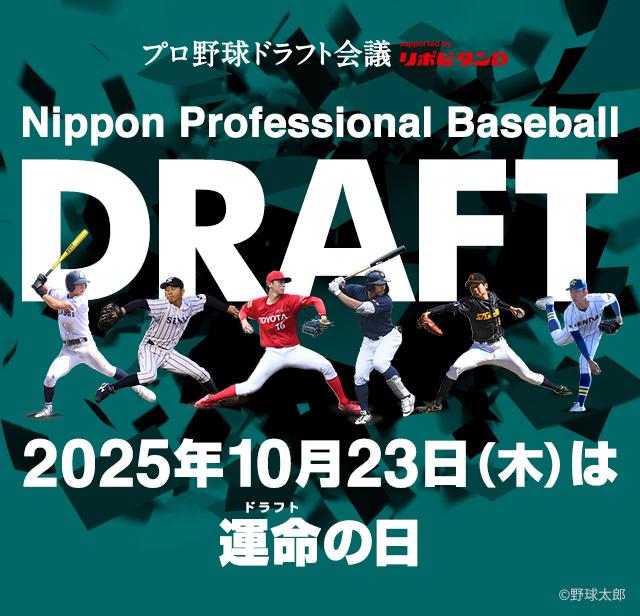
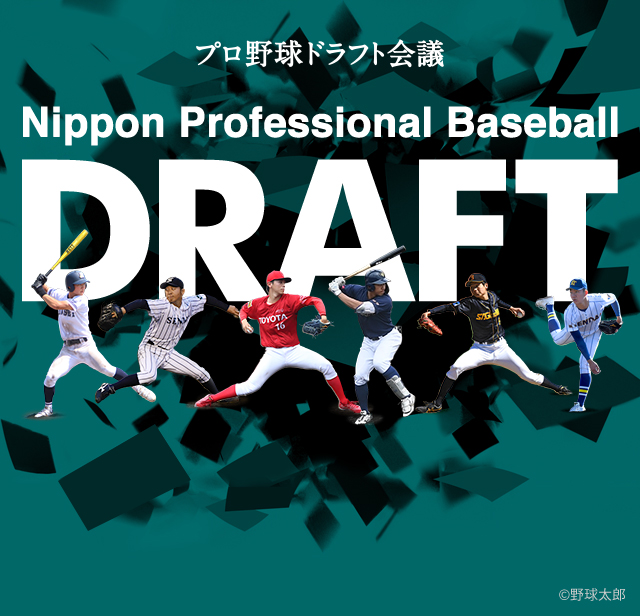
feature: コラム第1回更新

diff --git a/dist/special/draft2025/index.html b/dist/special/draft2025/index.html
@@ -253,12 +253,7 @@
                 
 <div class="draft">
   <h1 class="top-title">
-    <img
-      alt="プロ野球ドラフト会議 supported by リポビタンD Nippon Professional Baseball DRAFT 2025 2025年10月23日（木）は運命の日"
-      src="../../img/special/draft2025/main-image.jpg"
-      width="1920"
-      height="1098"
-    />
+    <img alt="プロ野球ドラフト会議" src="../../img/special/draft2025/main-image.jpg" width="1920" height="1098">
   </h1>
 
   <div class="content-block head">
@@ -320,14 +315,28 @@
       </div>
 
       <p class="program-content-caption-text">
-        1979年、愛知県生まれ。大学まで選手としてプレーした後、筑波大学大学院で野球の動作解析について研究し、在学中から技術解析などをテーマに野球専門誌に寄稿を開始。2017年からはスカイＡのドラフト会議で解説を務め、2021年・2022年・2023年には仮想ドラフト会議にも出演。アマチュア野球を中心に年間約300試合を取材する熱血スポーツライター。
+        1979年、愛知県生まれ。大学まで選手としてプレーした後、筑波大学大学院で野球の動作解析について研究し、在学中から技術解析などをテーマに野球専門誌に寄稿を開始。2017年からはスカイＡのドラフト会議で解説を務め、最近では仮想ドラフトにも出演。アマチュア野球を中心に年間約300試合を取材する熱血スポーツライター。
       </p>
     </article>
-    <p class="heading-title">
-      <span>coming soon</span><br />
-      8月中旬公開予定！以後、毎週1本掲載していきます
-    </p>
     
+    <ol class="program-column">
+      <li class="program-column-list">
+        <div class="program-column-visual">
+          <a href="https://www.dev.sky-a.asahi.co.jp/news/429/"><span class="program-column-number">#01</span> <img alt="" height="auto" src="/img/special/draft2025/column1_1.jpg" width="360" /> </a>
+          <span class="program-column-visual-caption">© 野球太郎</span>
+        </div>
+        <div class="program-column-detail">
+          <dl class="program-column-title">
+            <dt><a href="https://www.dev.sky-a.asahi.co.jp/news/429/">2025/08/15　【ドラフトへの軌跡2025】第10回</a></dt>
+            <dd><a href="https://www.dev.sky-a.asahi.co.jp/news/429/"><ruby>石垣元気<rp>(</rp><rt>イシガキ ゲンキ</rt><rp>)</rp></ruby>（健大高崎）　3年　投手</a></dd>
+          </dl>
+          <p class="program-column-text">
+            <a href="https://www.dev.sky-a.asahi.co.jp/news/429/">今年の高校生で最注目の存在と言えばやはり健大高崎のエース、石垣元気になるだろう。1年春から公式戦で登板し、甲子園にも春夏合わせて4度出場...</a>
+          </p>
+          <p class="program-column-link"><a href="https://www.dev.sky-a.asahi.co.jp/news/429/">続きを読む</a></p>
+        </div>
+      </li>
+    </ol>
   </section>
 </div>
 
@@ -347,21 +356,24 @@
 <div class="content-block">
   <section class="program special">
     <div class="special-content">
-      <h2 class="special-title"><a href="DUMMY">原石発掘！ドラフトハンター 2025夏</a></h2>
+      <h2 class="special-title"><a href="https://sky-a.asahi.co.jp/category/baseball/4000051/">原石発掘！ドラフトハンター 2025夏</a></h2>
 
       <p class="special-lead">
-        <a href="DUMMY">
+        <a href="https://sky-a.asahi.co.jp/category/baseball/4000051/">
           大本命の大学生選手や社会人即戦力候補から、この夏期待の高校生まで、2025年のドラフト注目選手を一挙にご紹介！<br />
           体当たり取材で毎度おなじみ“ドラフトハンター”が、今回発掘するのは…？<br />
           キラッと光るプロ野球選手の原石たちをたっぷりお届けします。<br />
           <br />
-          出演者：中嶋聡、西尾典文、寺田健人
+          7/27(日) 午後4:00　初回放送
+          出演者：中嶋聡、西尾典文、寺田健人、福戸あや(ABCTVアナウンサー)
+          <br><br>
+          <img alt="原石発掘！ドラフトハンター 2025夏" src="../../img/special/draft2025/draft-hunter-image.jpg" />
         </a>
       </p>
     </div>
 
     <div class="special-image">
-      <a href="DUMMY"><img alt="原石発掘！ドラフトハンター 2025夏" src="../../img/special/draft2025/logo_01.png" width="240" height="181" /> </a>
+      <a href="https://sky-a.asahi.co.jp/category/baseball/4000051/"><img alt="原石発掘！ドラフトハンター 2025夏" src="../../img/special/draft2025/logo_01.png" width="240" height="181" /></a>
     </div>
   </section>
 </div>
@@ -376,7 +388,8 @@
       </p>
 
       <p class="program-content-text">
-        高校野球・大学野球・社会人野球を始めとする『アマチュア野球』コンテンツを展開する「スカイA」と「ABCスポーツ」が総力を上げお届けするドラフト専門公式YouTubeチャンネル
+        ドラフトを"知り尽くしたい"あなたへ！<br>YouTube「プロ野球 ドラフトちゃんねる」<br><br>
+        注目選手への密着企画や最新選手情報、チーム分析まで！ドラフト会議をさらに面白くするコンテンツが満載。
       </p>
     </div>
 
@@ -397,10 +410,7 @@
   <div class="content-bottom">
     <div class="c-sptv">
       <a class="c-sptv-link" href="https://promo.skyperfectv.co.jp/guide/?skya=howto" onclick="ga('send', 'event', 'click', 'draft2025_pc');" target="_blank"
-        ><img
-          alt="スカイA見るならスカパー！ スカイAはスカパー！ CS250ch　加入料0円、月額1,529円（税込）、録画OK　お申込み・お問合せはスカイＡ カスタマーセンター　0570-066-250 年中無休（10:00～20:00）　スカイＡはスカパー！、ケーブルテレビ、ひかりTVでご視聴いただけます。　お申込みはこちら"
-          src="../../img/special/draft2025/sptv1.jpg"
-        />
+        ><img alt="スカイA見るならスカパー！ スカイAはスカパー！ CS250ch　加入料0円、月額1,529円（税込）、録画OK　お申込み・お問合せはスカイＡ カスタマーセンター　0570-066-250 年中無休（10:00～20:00）　スカイＡはスカパー！、ケーブルテレビ、ひかりTVでご視聴いただけます。　お申込みはこちら" src="../../img/special/draft2025/sptv1.jpg">
       </a>
     </div>
   </div>

diff --git a/dist/special/draft2025_sp/index.html b/dist/special/draft2025_sp/index.html
@@ -357,9 +357,6 @@
   </h1>
 
   <div class="content-block head">
-    <div class="head-icon">
-      <img src="../../img/sp/special/draft2025/icon_draft.png" alt="スポーツ専門チャンネルで放送する今日・明日の番組" width="183" height="170" />
-    </div>
     <p class="heading-title center">
       全12球団の１位指名から最終指名、<br />
       さらには育成選手指名まで、<br />
@@ -395,14 +392,28 @@
       </div>
 
       <p class="program-content-caption-text">
-        1979年、愛知県生まれ。大学まで選手としてプレーした後、筑波大学大学院で野球の動作解析について研究し、在学中から技術解析などをテーマに野球専門誌に寄稿を開始。2017年からはスカイＡのドラフト会議で解説を務め、2021年・2022年・2023年には仮想ドラフト会議にも出演。アマチュア野球を中心に年間約300試合を取材する熱血スポーツライター。
+        1979年、愛知県生まれ。大学まで選手としてプレーした後、筑波大学大学院で野球の動作解析について研究し、在学中から技術解析などをテーマに野球専門誌に寄稿を開始。2017年からはスカイＡのドラフト会議で解説を務め、最近では仮想ドラフトにも出演。アマチュア野球を中心に年間約300試合を取材する熱血スポーツライター。
       </p>
     </article>
-    <p class="heading-title">
-      <span>coming soon</span><br />
-      8月中旬公開予定！以後、毎週1本掲載していきます
-    </p>
     
+    <ol class="program-column">
+      <li class="program-column-list">
+        <div class="program-column-visual">
+          <a href="https://www.dev.sky-a.asahi.co.jp/news/429/"><span class="program-column-number">#01</span> <img alt="" height="auto" src="/img/special/draft2025/column1_1.jpg" width="360" /> </a>
+          <span class="program-column-visual-caption">© 野球太郎</span>
+        </div>
+        <div class="program-column-detail">
+          <dl class="program-column-title">
+            <dt><a href="https://www.dev.sky-a.asahi.co.jp/news/429/">2025/08/15　【ドラフトへの軌跡2025】第10回</a></dt>
+            <dd><a href="https://www.dev.sky-a.asahi.co.jp/news/429/"><ruby>石垣元気<rp>(</rp><rt>イシガキ ゲンキ</rt><rp>)</rp></ruby>（健大高崎）　3年　投手</a></dd>
+          </dl>
+          <p class="program-column-text">
+            <a href="https://www.dev.sky-a.asahi.co.jp/news/429/">今年の高校生で最注目の存在と言えばやはり健大高崎のエース、石垣元気になるだろう。1年春から公式戦で登板し、甲子園にも春夏合わせて4度出場...</a>
+          </p>
+          <p class="program-column-link"><a href="https://www.dev.sky-a.asahi.co.jp/news/429/">続きを読む</a></p>
+        </div>
+      </li>
+    </ol>
   </section>
 </div>
 
@@ -422,21 +433,24 @@
 <div class="content-block">
   <section class="program special">
     <div class="special-content">
-      <h2 class="special-title"><a href="DUMMY">原石発掘！ドラフトハンター 2025夏</a></h2>
+      <h2 class="special-title"><a href="https://sky-a.asahi.co.jp/category/baseball/4000051/">原石発掘！ドラフトハンター 2025夏</a></h2>
 
       <p class="special-lead">
-        <a href="DUMMY">
+        <a href="https://sky-a.asahi.co.jp/category/baseball/4000051/">
           大本命の大学生選手や社会人即戦力候補から、この夏期待の高校生まで、2025年のドラフト注目選手を一挙にご紹介！<br />
           体当たり取材で毎度おなじみ“ドラフトハンター”が、今回発掘するのは…？<br />
           キラッと光るプロ野球選手の原石たちをたっぷりお届けします。<br />
           <br />
-          出演者：中嶋聡、西尾典文、寺田健人
+          7/27(日) 午後4:00　初回放送
+          出演者：中嶋聡、西尾典文、寺田健人、福戸あや(ABCTVアナウンサー)
+          <br><br>
+          <img alt="原石発掘！ドラフトハンター 2025夏" src="../../img/special/draft2025/draft-hunter-image.jpg" />
         </a>
       </p>
     </div>
 
     <div class="special-image">
-      <a href="DUMMY"><img alt="原石発掘！ドラフトハンター 2025夏" src="../../img/special/draft2025/logo_01.png" width="240" height="181" /> </a>
+      <a href="https://sky-a.asahi.co.jp/category/baseball/4000051/"><img alt="原石発掘！ドラフトハンター 2025夏" src="../../img/special/draft2025/logo_01.png" width="240" height="181" /></a>
     </div>
   </section>
 </div>
@@ -451,7 +465,8 @@
       </p>
 
       <p class="program-content-text">
-        高校野球・大学野球・社会人野球を始めとする『アマチュア野球』コンテンツを展開する「スカイA」と「ABCスポーツ」が総力を上げお届けするドラフト専門公式YouTubeチャンネル
+        ドラフトを"知り尽くしたい"あなたへ！<br>YouTube「プロ野球 ドラフトちゃんねる」<br><br>
+        注目選手への密着企画や最新選手情報、チーム分析まで！ドラフト会議をさらに面白くするコンテンツが満載。
       </p>
     </div>
 

diff --git a/src/styles/special/special_draft2025.scss b/src/styles/special/special_draft2025.scss
@@ -341,6 +341,7 @@ div#main {
   .links {
     display: flex;
     justify-content: space-between;
+    gap: 0 60px;
 
     .link {
       width: calc((100% - 60px) / 2);
@@ -493,7 +494,7 @@ div#main {
 
     .program-column-title {
       align-items: center;
-      display: flex;
+      //display: flex;
       flex-direction: row-reverse;
       justify-content: space-between;
 
@@ -533,8 +534,8 @@ div#main {
   .top-present {
     position: relative;
     display: block;
-    width: 300px;
-    margin: 25px auto;
+    width: auto;
+    margin: 25px 0;
     text-align: center;
     font-size: 16px;
     padding: 1em 2em;

diff --git a/dist/css/special/special_draft2025.css b/dist/css/special/special_draft2025.css
@@ -270,6 +270,7 @@ div#main {
 .draft .links {
   display: flex;
   justify-content: space-between;
+  gap: 0 60px;
 }
 .draft .links .link {
   width: calc((100% - 60px) / 2);
@@ -394,7 +395,6 @@ div#main {
 }
 .draft .road_to_draft .program-column-title {
   align-items: center;
-  display: flex;
   flex-direction: row-reverse;
   justify-content: space-between;
 }
@@ -424,8 +424,8 @@ div#main {
 .draft .top-present {
   position: relative;
   display: block;
-  width: 300px;
-  margin: 25px auto;
+  width: auto;
+  margin: 25px 0;
   text-align: center;
   font-size: 16px;
   padding: 1em 2em;
